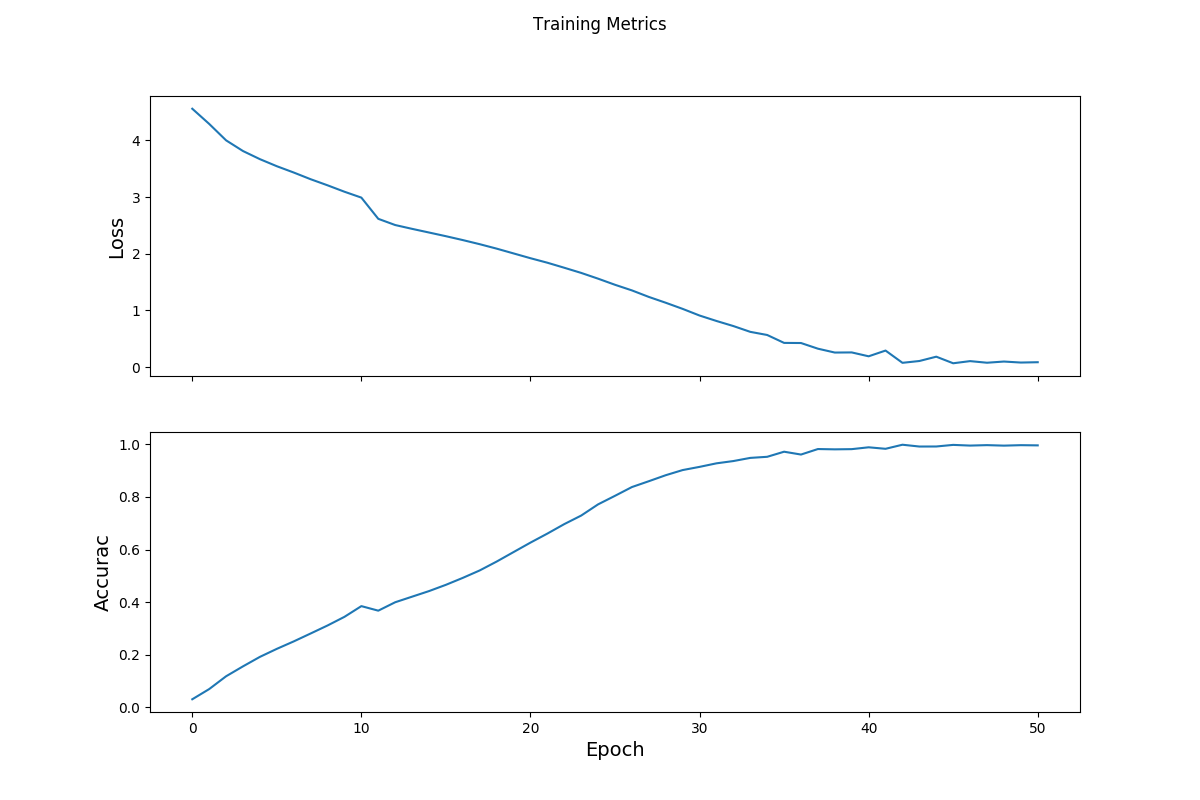
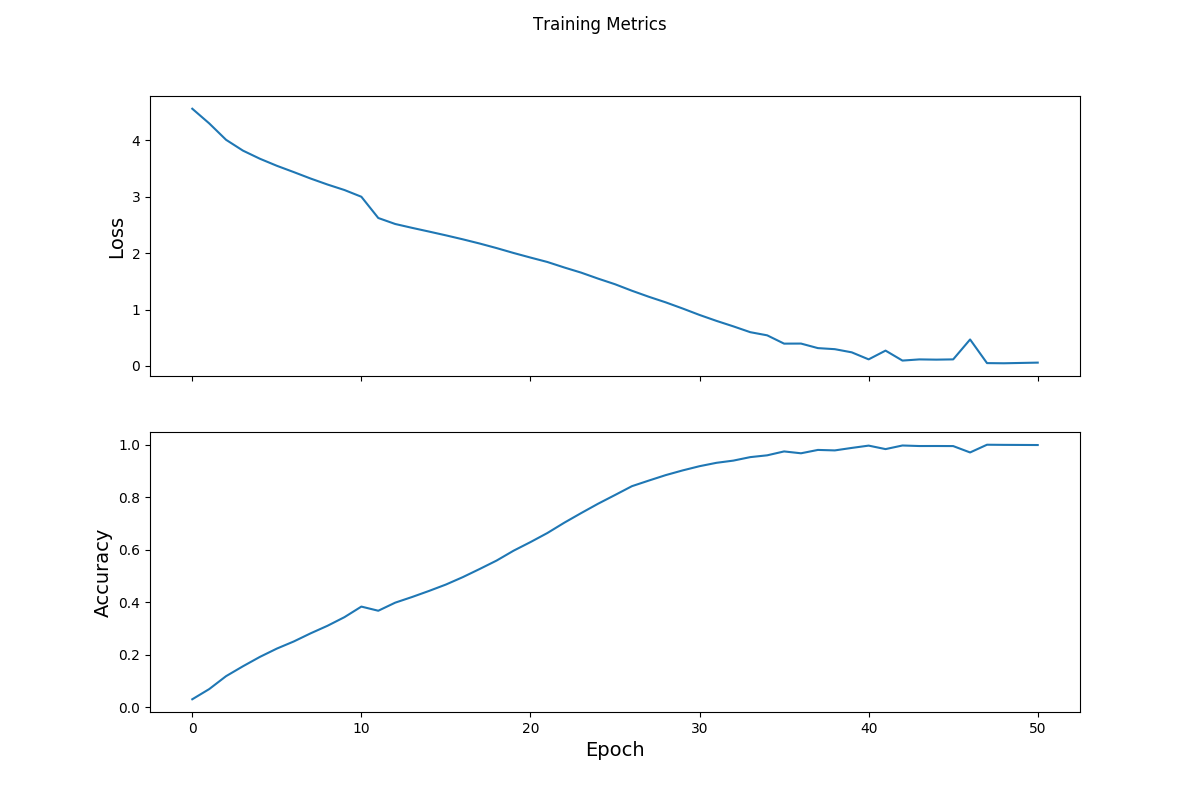
New: * adaptive learning rate and momentum in SGD * plot test

diff --git a/model.py b/model.py
@@ -26,8 +26,9 @@ class ResNet(Model):
 		# assert config.BACKBONE in ['51', '101']
 
 		'''
-		TODO: readd downsampling through convolutions with stride=2
-
+		TODO: add regularization loss (weight decay = 0.0001
+		This is done via the conv2d (and possibly other layers) arg: kernel_regularizer.
+		Possible solution can be 'tf.contrib.layers.l2_regularizer'.
 		'''
 
 		""" conv1 """
@@ -256,8 +257,9 @@ if __name__ =='__main__':
 	model.build(input_shape=(100, 32, 32, 3)) # place correct shape from imagenet
 
 	''' initialize '''
+	learning_rate = 0.1
 	loss_object = tf.losses.SparseCategoricalCrossentropy()
-	optimizer = tf.keras.optimizers.SGD(lr=0.1)
+	optimizer = tf.keras.optimizers.SGD( lr=learning_rate, momentum = 0.9)
 
 
 	train_loss_results = []
@@ -291,15 +293,14 @@ if __name__ =='__main__':
 		train_loss_results.append(epoch_loss_avg.result())
 		train_accuracy_results.append(epoch_accuracy.result())
 		
-		if epoch % 10 == 0:
-			fname = './imgs/Accuracy_Loss_' + str(epoch) + '.png'
+		if epoch % 50 == 0:
+			fname = 'imgs/Accuracy_Loss_' + str(epoch) + '.png'
 			save_plot(train_loss_results, train_accuracy_results, fname)
-
-		if epoch == 10:
-			optimizer = tf.keras.optimizers.SGD(lr=0.01)
 		
-		if epoch == 100:
-			optimizer = tf.keras.optimizers.SGD(lr=0.001)
+		if train_loss_results[-1] < train_loss_results[-2]: # was if epoch == 10:
+			learning_rate /= 10
+			optimizer = tf.keras.optimizers.SGD(lr=learning_rate, momentum=0.9)
+		
 	
 	
 
@@ -336,7 +337,7 @@ if __name__ =='__main__':
 		print("Batch: {:03d} Loss: {:.3%}, Accuracy: {:.3%}".format(k,  loss_value, btch_accuracy.result()))
 		k+=1
 
-	save_plot(pbtch_loss_results, pbtch_accuracy_results, './imgs/TEST.png')
+	save_plot(pbtch_loss_results, pbtch_accuracy_results, 'imgs/TEST.png')
 	print("Overall performance:")
 	print("Loss: {:.3%}, Accuracy: {:.3%}".format(epoch, epoch_loss_avg.result(), epoch_accuracy.result()))
 
